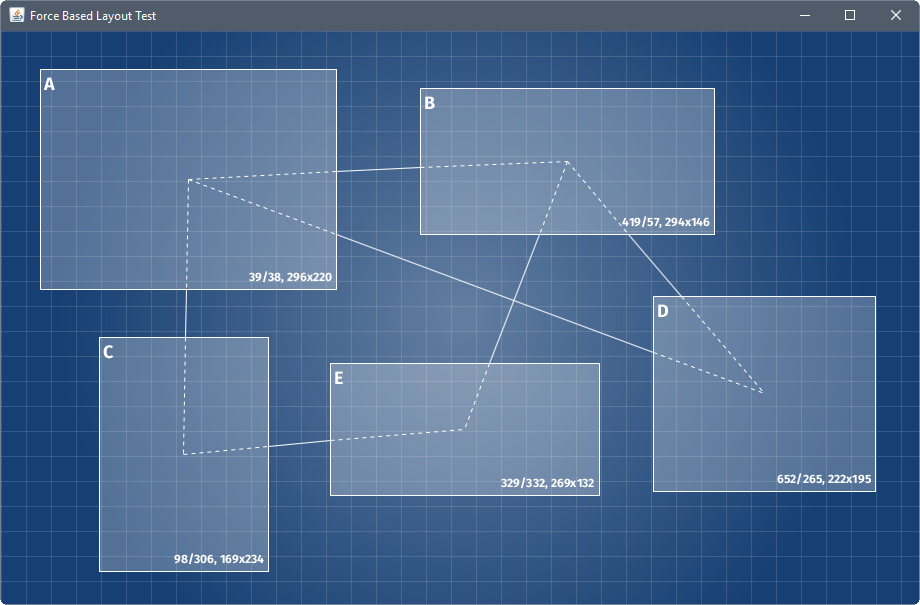
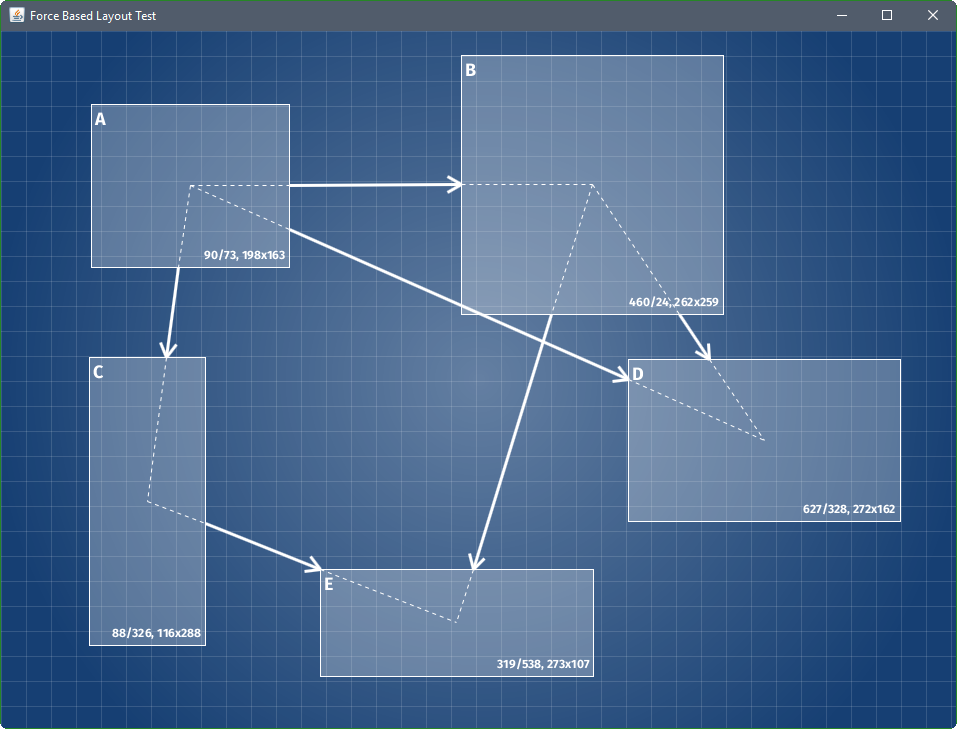
Added arrow heads for connectors

diff --git a/src/main/java/ch/frostnova/force/based/layout/render/strategy/DebugRenderStrategy.java b/src/main/java/ch/frostnova/force/based/layout/render/strategy/DebugRenderStrategy.java
@@ -2,6 +2,7 @@ package ch.frostnova.force.based.layout.render.strategy;
 
 import ch.frostnova.force.based.layout.geom.Line;
 import ch.frostnova.force.based.layout.geom.Point;
+import ch.frostnova.force.based.layout.geom.Vector;
 import ch.frostnova.force.based.layout.geom.domain.RectanglePairMetrics;
 import ch.frostnova.force.based.layout.model.Connector;
 import ch.frostnova.force.based.layout.model.Shape;
@@ -30,11 +31,15 @@ public class DebugRenderStrategy implements SceneRenderStrategy {
     private final Color connectorColor = new Color(0xFFFFFF);
     private final Color gridColor = new Color(0x22000000 | baseColor.getRGB() & 0xFFFFFF, true);
 
-    private final Stroke solidStroke = new BasicStroke(1, BasicStroke.CAP_BUTT, BasicStroke.JOIN_MITER);
+    private final Stroke solidStroke = new BasicStroke(3, BasicStroke.CAP_BUTT, BasicStroke.JOIN_MITER);
     private final Stroke dashedStroke = new BasicStroke(1, BasicStroke.CAP_BUTT, BasicStroke.JOIN_MITER, 1, new float[]{4}, 0);
 
     private final Font identifierFont = new Font("Fira Sans", Font.BOLD, 18);
     private final Font metricsFont = new Font("Fira Sans", Font.BOLD, 12);
+
+    private final double arrowHeadSize = 16;
+    private final double arrowHeadAngle = 30 * Math.PI / 180;
+
 
     private BufferedImage cachedBackground;
 
@@ -100,8 +105,6 @@ public class DebugRenderStrategy implements SceneRenderStrategy {
     @Override
     public void render(Graphics2D g, Connector connector) {
 
-        debug(connector);
-
         final Shape from = connector.getFrom();
         final Shape to = connector.getTo();
 
@@ -113,11 +116,11 @@ public class DebugRenderStrategy implements SceneRenderStrategy {
 
         // find intersections on the two shapes with the connector line
 
-        final Point lineStart = from.getBounds().nearestIntersection(connectorStartEnd).orElse(start);
+        final Point lineStart = from.getBounds().nearestIntersection(connectorStartEnd).orElse(null);
         if (lineStart == null) {
             return;
         }
-        final Point lineEnd = to.getBounds().nearestIntersection(connectorEndStart).orElse(end);
+        final Point lineEnd = to.getBounds().nearestIntersection(connectorEndStart).orElse(null);
         if (lineEnd == null) {
             return;
         }
@@ -125,12 +128,7 @@ public class DebugRenderStrategy implements SceneRenderStrategy {
         double lenght1 = start.distance(lineStart).length();
         double lenght2 = start.distance(lineEnd).length();
 
-        if (lenght1 >= lenght2) {
-
-            g.setColor(Color.red);
-            g.setStroke(solidStroke);
-            g.draw(new Line2D.Double(start.getX(), start.getY(), end.getX(), end.getY()));
-        } else {
+        if (lenght1 < lenght2) {
             g.setColor(connectorColor);
             g.setStroke(dashedStroke);
             g.draw(new Line2D.Double(start.getX(), start.getY(), lineStart.getX(), lineStart.getY()));
@@ -138,20 +136,28 @@ public class DebugRenderStrategy implements SceneRenderStrategy {
 
             g.setStroke(solidStroke);
             g.draw(new Line2D.Double(lineStart.getX(), lineStart.getY(), lineEnd.getX(), lineEnd.getY()));
+
+            // arrow head
+            Vector v = lineEnd.add(lineEnd.distance(lineStart).normalized().scaled(arrowHeadSize));
+
+            Vector arrowHead1 = v.rotate(lineEnd, arrowHeadAngle);
+            Vector arrowHead2 = v.rotate(lineEnd, -arrowHeadAngle);
+            g.draw(new Line2D.Double(arrowHead1.getX(), arrowHead1.getY(), lineEnd.getX(), lineEnd.getY()));
+            g.draw(new Line2D.Double(arrowHead2.getX(), arrowHead2.getY(), lineEnd.getX(), lineEnd.getY()));
         }
-    }
 
-    private void debug(Connector connector) {
 
-        System.out.println("CONNECTOR: " + connector.getFrom().getIdentifier().orElse("?") + " -> " + connector.getTo().getIdentifier().orElse("?"));
-        System.out.println("- from: " + connector.getFrom());
-        System.out.println("- to: " + connector.getTo());
+        if (connector.getFrom().getIdentifier().map("A"::equals).orElse(false) && connector.getTo().getIdentifier().map("B"::equals).orElse(false)) {
 
-        RectanglePairMetrics metrics = new RectanglePairMetrics(connector.getFrom().getBounds(), connector.getTo().getBounds());
-        System.out.println("- overlap: " + metrics.overlap());
-        System.out.println("- overlap area: " + metrics.overlapArea().orElse(null));
-        System.out.println("- overlap length: " + metrics.overlapLength().orElse(null));
-        System.out.println("- distance: " + metrics.distance().orElse(null));
+            System.out.println("CONNECTOR: " + connector.getFrom().getIdentifier().orElse("?") + " -> " + connector.getTo().getIdentifier().orElse("?"));
+            System.out.println("- from: " + connector.getFrom());
+            System.out.println("- to: " + connector.getTo());
 
+            RectanglePairMetrics metrics = new RectanglePairMetrics(connector.getFrom().getBounds(), connector.getTo().getBounds());
+            System.out.println("- overlap: " + metrics.overlap());
+            System.out.println("- overlap area: " + metrics.overlapArea().orElse(null));
+            System.out.println("- overlap length: " + metrics.overlapLength().orElse(null));
+            System.out.println("- distance: " + metrics.distance().orElse(null));
+        }
     }
 }

diff --git a/src/main/java/ch/frostnova/force/based/layout/geom/Vector.java b/src/main/java/ch/frostnova/force/based/layout/geom/Vector.java
@@ -80,7 +80,36 @@ public class Vector {
         if (length == 0) {
             return this;
         }
-        return new Vector(x / length, y / length);
+        return scaled(1 / length);
+    }
+
+    /**
+     * Rotate the vector
+     *
+     * @param pivot pivot point to rotate around
+     * @param angle angle (radians) to rotate
+     * @return rotated vector
+     */
+    public final Vector rotate(Vector pivot, double angle) {
+
+        double px = x - pivot.getX();
+        double py = y - pivot.getY();
+        double s = Math.sin(angle);
+        double c = Math.cos(angle);
+
+        double xnew = pivot.getX() + px * c - py * s;
+        double ynew = pivot.getY() + px * s + py * c;
+
+        return new Vector(xnew, ynew);
+    }
+
+    /**
+     * Returns an scaled version of this vector.
+     *
+     * @return scaled vector
+     */
+    public final Vector scaled(double factor) {
+        return new Vector(x * factor, y * factor);
     }
 
     /**
@@ -90,7 +119,7 @@ public class Vector {
      */
     public final Vector add(Vector other) {
         Check.required(other, "other");
-        return new Vector(x + other.getY(), y + other.getY());
+        return new Vector(x + other.getX(), y + other.getY());
     }
 
     @Override

diff --git a/src/main/java/ch/frostnova/force/based/layout/TestApp.java b/src/main/java/ch/frostnova/force/based/layout/TestApp.java
@@ -62,11 +62,12 @@ public class TestApp extends JFrame {
         scene.add(e);
 
         scene.add(new Connector(a, b));
-        //        scene.add(new Connector(a, c));
-        //        scene.add(new Connector(a, d));
-        //        scene.add(new Connector(b, d));
-        //        scene.add(new Connector(b, e));
-        //        scene.add(new Connector(c, e));
+        scene.add(new Connector(a, c));
+        scene.add(new Connector(a, d));
+        scene.add(new Connector(b, d));
+        scene.add(new Connector(b, e));
+        scene.add(new Connector(c, e));
+
         return scene;
     }
 
